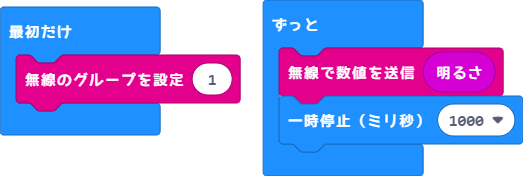
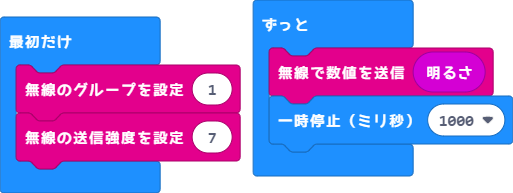
Change tx power

diff --git a/main.ts b/main.ts
@@ -1,4 +1,5 @@
 radio.setGroup(1)
+radio.setTransmitPower(7)
 basic.forever(function () {
     radio.sendNumber(input.lightLevel())
     basic.pause(1000)

diff --git a/main.py b/main.py
@@ -1,56 +1,7 @@
-def on_received_number(receivedNumber):
-    global recv_timeout
-    recv_timeout = 0
-    if 192 < receivedNumber:
-        basic.show_leds("""
-            # # # # #
-                        # # # # #
-                        # # # # #
-                        # # # # #
-                        # # # # #
-        """)
-    else:
-        if 128 < receivedNumber:
-            basic.show_leds("""
-                . . . . .
-                                . # # # .
-                                . # # # .
-                                . # # # .
-                                . . . . .
-            """)
-        else:
-            if 64 < receivedNumber:
-                basic.show_leds("""
-                    . . . . .
-                                        . . . . .
-                                        . . # . .
-                                        . . . . .
-                                        . . . . .
-                """)
-            else:
-                basic.show_leds("""
-                    . . . . .
-                                        . . . . .
-                                        . . . . .
-                                        . . . . .
-                                        . . . . .
-                """)
-radio.on_received_number(on_received_number)
-
-recv_timeout = 0
 radio.set_group(1)
+radio.set_transmit_power(7)
 
 def on_forever():
-    global recv_timeout
     radio.send_number(input.light_level())
     basic.pause(1000)
-    recv_timeout += 1
-    if 30 < recv_timeout:
-        basic.show_leds("""
-            . . . . .
-                        . . . . .
-                        . . . . .
-                        . . . . .
-                        . . . . .
-        """)
 basic.forever(on_forever)
